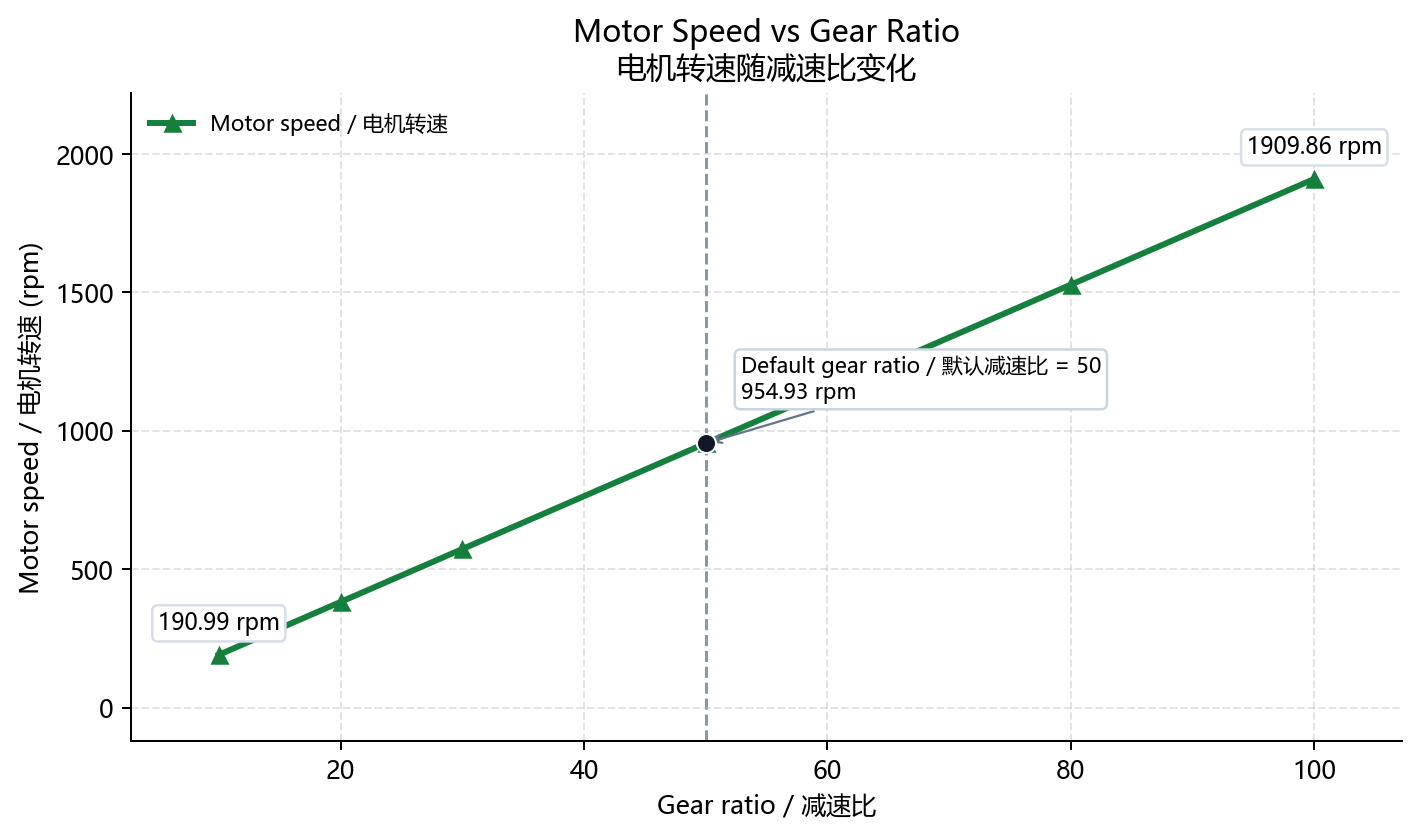
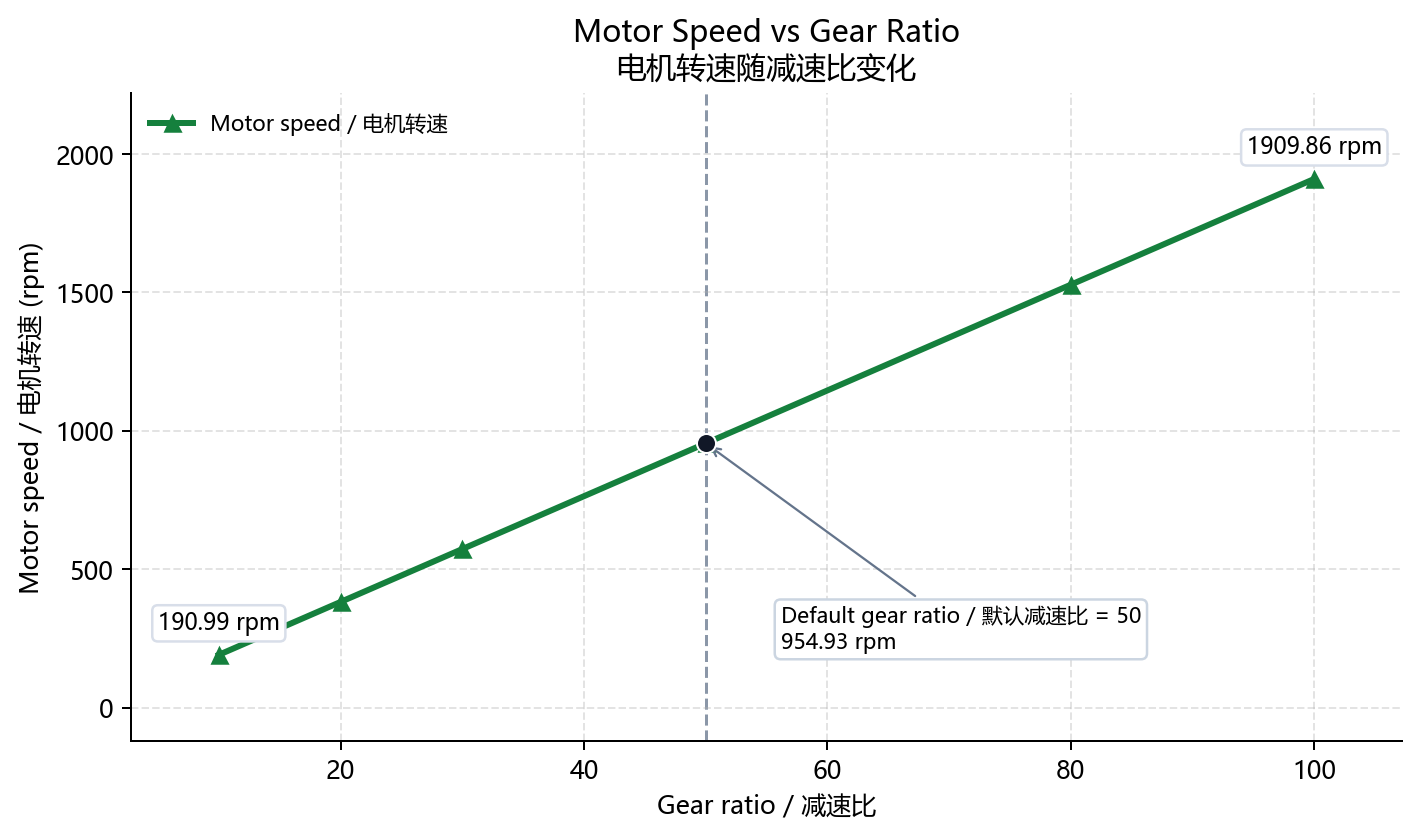
Update project

Changed region(s): [[0.4961, 0.4033, 0.7752, 0.5585], [0.5271, 0.6826, 0.8062, 0.8067], [0.5891, 0.6516, 0.6202, 0.6826]]

diff --git a/plot_torque_curves.py b/plot_torque_curves.py
@@ -50,6 +50,8 @@ def annotate_default_point(
     label: str,
     unit: str,
     marker: str = "D",
+    xytext: tuple[int, int] = (28, 34),
+    ha: str = "left",
 ) -> None:
     ax.scatter(
         [x_value],
@@ -64,9 +66,9 @@ def annotate_default_point(
     ax.annotate(
         f"{label}\n{y_value:.2f} {unit}",
         xy=(x_value, y_value),
-        xytext=(14, 18),
+        xytext=xytext,
         textcoords="offset points",
-        ha="left",
+        ha=ha,
         fontsize=8.5,
         bbox={"boxstyle": "round,pad=0.28", "fc": "white", "ec": "#cbd5e1"},
         arrowprops={"arrowstyle": "->", "color": "#64748b", "lw": 0.9},
@@ -125,6 +127,8 @@ def plot_load_sweep(config_path: str = "config.yaml") -> Path:
         default_result.required_joint_torque_nm,
         f"Default load / 默认负载 = {base_input.load_mass_kg:g} kg",
         "N·m",
+        xytext=(-28, 54),
+        ha="right",
     )
     finish_plot(fig, ax)
 
@@ -211,6 +215,7 @@ def plot_motor_speed_sweep(config_path: str = "config.yaml") -> Path:
         f"Default gear ratio / 默认减速比 = {base_input.gear_ratio:g}",
         "rpm",
         marker="o",
+        xytext=(30, -82),
     )
     finish_plot(fig, ax)
 